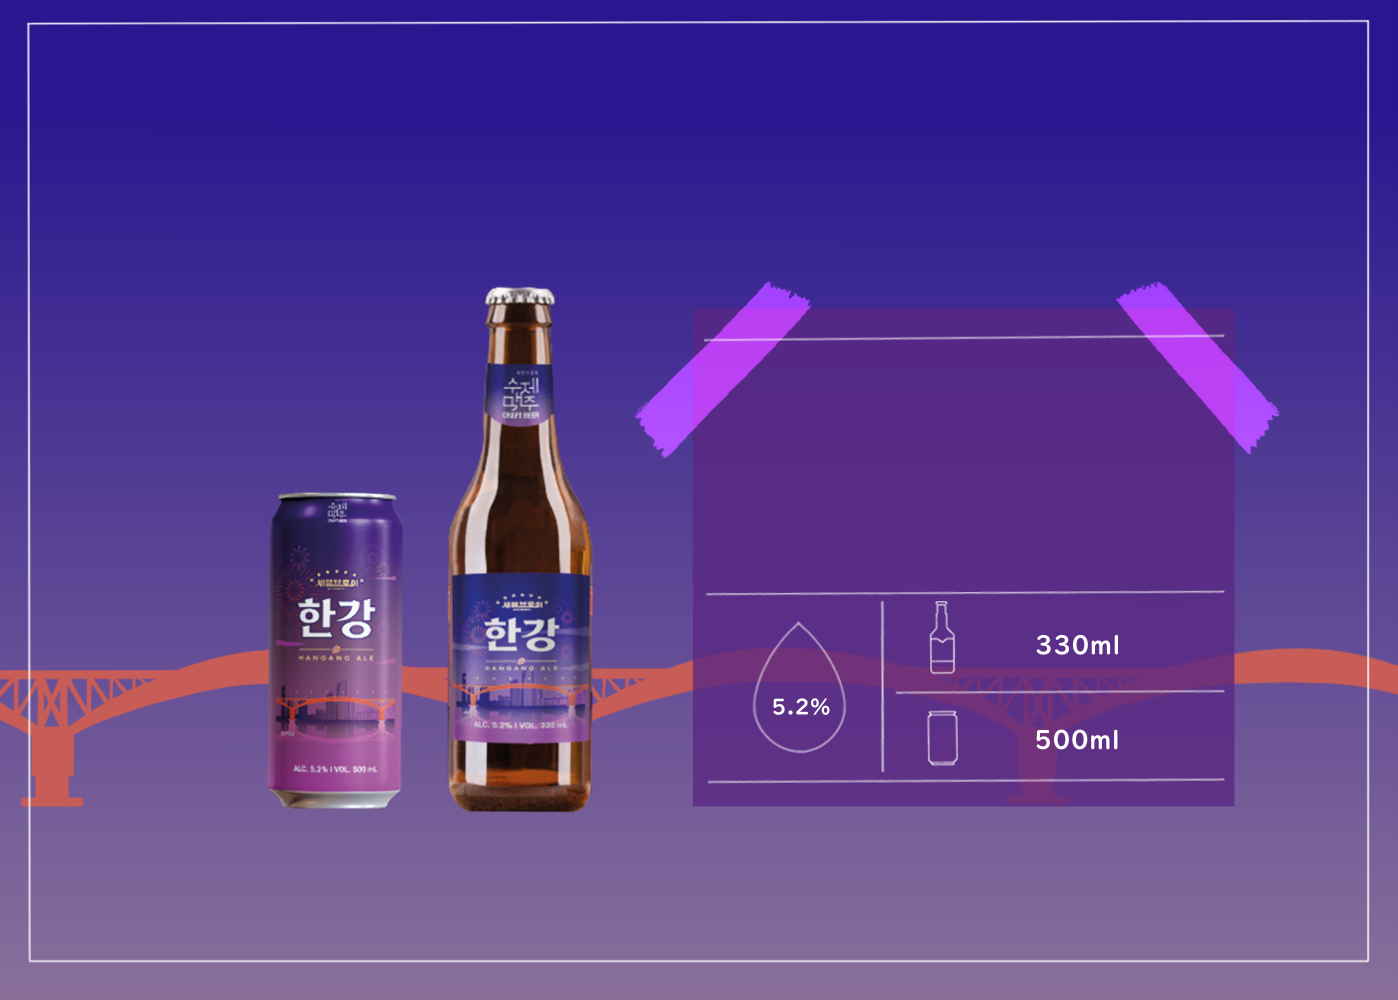
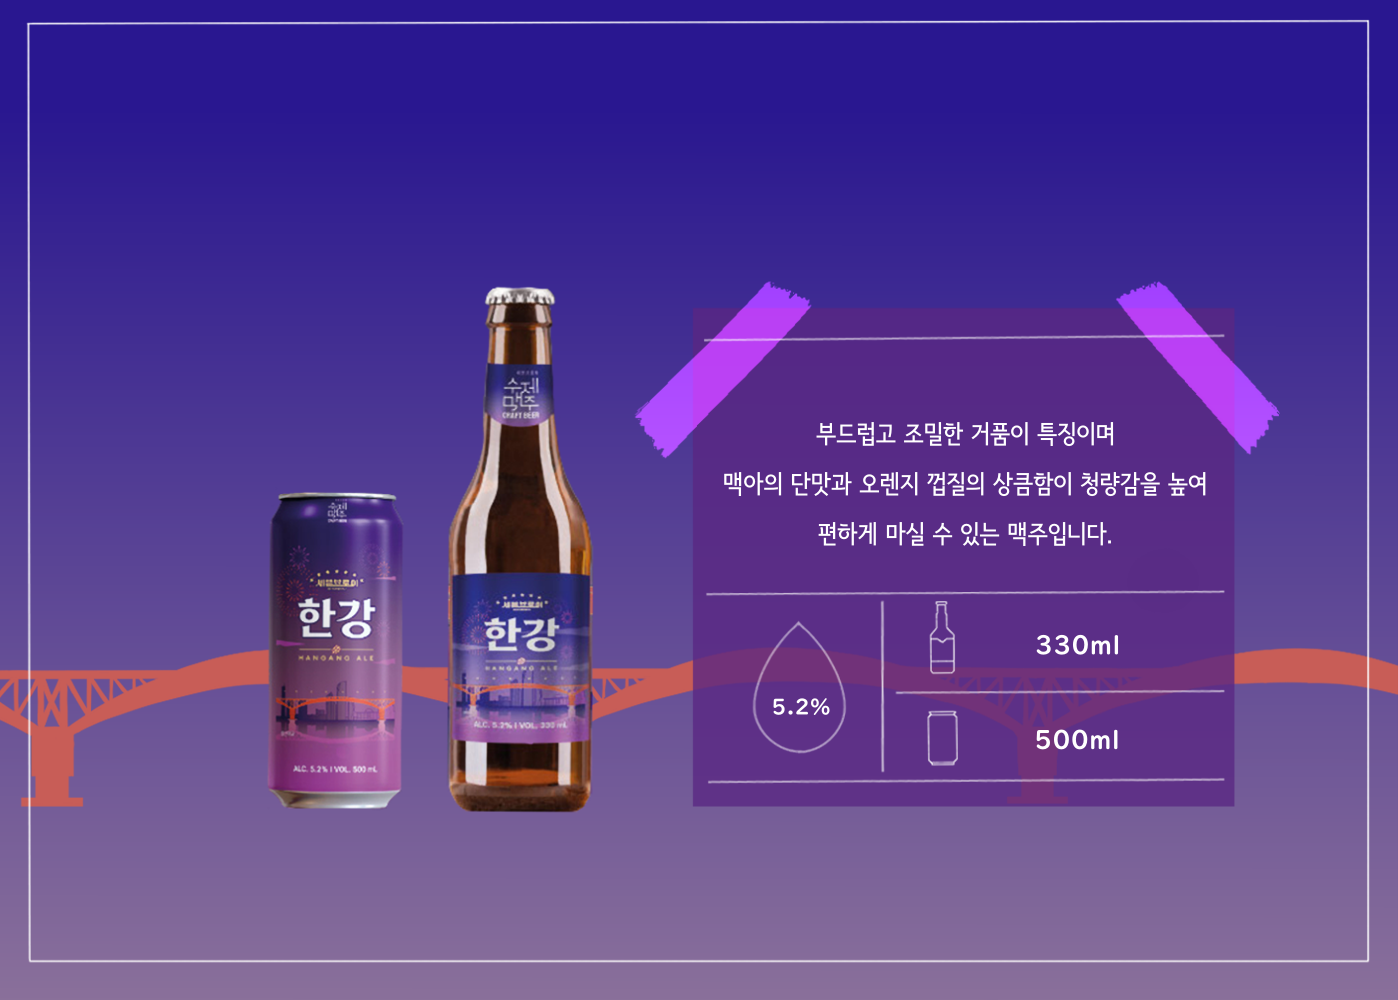
CHORE: input text in img

Changed region(s): [[0.5229, 0.403, 0.8612, 0.496], [0.5844, 0.527, 0.7997, 0.558]]

diff --git a/beer/p2.html b/beer/p2.html
@@ -78,14 +78,6 @@
             src="../img/beerpart/TERRA-INFO.png"
             alt=""
           />
-          <ul>
-            <div class="information">
-              <li class="c-information-text1">
-                호주에서 자란 청정맥아와 발효공정에서 나오는 리얼 탄산을 100%
-                사용하여 거품은 조밀하고 탄산은 오래 지속됩니다.
-              </li>
-            </div>
-          </ul>
         </section>
         <section id="p2-recommend" class="recommend-section">
           <h1 class="recommend-title">추천 음식</h1>

diff --git a/beer/p6.html b/beer/p6.html
@@ -78,14 +78,6 @@
           src="../img/beerpart/HANGANG-INFO.png"
           alt=""
         />
-        <ul>
-          <div class="information">
-            <li class="h-information-text1">
-              부드럽고 조밀한 거품이 특징이며 맥아의 단맛과 오렌지 껍질의
-              상큼함이 청량감을 높여 편하게 마실 수 있는 맥주입니다.
-            </li>
-          </div>
-        </ul>
       </section>
       <section id="p6-recommend" class="recommend-section">
         <h1 class="recommend-title">추천 음식</h1>

diff --git a/beer/p1.html b/beer/p1.html
@@ -79,14 +79,6 @@
         src="../img/beerpart/CASS-INFO2.png"
         alt=""
       />
-      <ul>
-        <div class="information">
-          <li class="c-information-text1">
-            카스만의 콜드브루 공법으로 맥주의 상쾌함과 깔끔한 맛을 한층 거
-            극대화해 라거 특유의 <br />깔끔하고 청량한 맛을 즐길 수 있습니다.
-          </li>
-        </div>
-      </ul>
     </section>
     <section id="p1-recommend" class="recommend-section">
       <h1 class="recommend-title">추천 음식</h1>

diff --git a/beer/p4.html b/beer/p4.html
@@ -79,14 +79,6 @@
           src="../img/beerpart/GOMPYO-INFO.png"
           alt=""
         />
-        <ul>
-          <div class="information">
-            <li class="g-information-text1">
-              달콤하고 향긋한 열대과일향을 풍부하게 느낄 수 있으며 부드러운
-              거품과 개운한 끝 맛이 특징인 밀맥주입니다.
-            </li>
-          </div>
-        </ul>
       </section>
       <!-- 곰표 food -->
       <section id="p4-recommend" class="recommend-section">

diff --git a/beer/p5.html b/beer/p5.html
@@ -78,14 +78,6 @@
           src="../img/beerpart/SEOUL-1983 INFO.png"
           alt=""
         />
-        <ul>
-          <div class="information">
-            <li class="se-information-text1">
-              구운 맥아의 고소하고 달콤한 풍미가 풍부한 비엔나 라거 스타일의
-              맥주입니다.
-            </li>
-          </div>
-        </ul>
       </section>
       <section id="p5-recommend" class="recommend-section">
         <h1 class="recommend-title">추천 음식</h1>

diff --git a/beer/p3.html b/beer/p3.html
@@ -79,13 +79,6 @@
             src="../img/beerpart/STOUT-INFO.png"
             alt=""
           />
-          <ul>
-            <div class="information">
-              <li class="st-information-text1">
-                대한민국이 즐기는 라거 타입 흑맥주 스타우트 상쾌하게 돌아오다.
-              </li>
-            </div>
-          </ul>
         </section>
         <section id="p3-recommend" class="recommend-section">
           <h1 class="recommend-title">추천 음식</h1>
